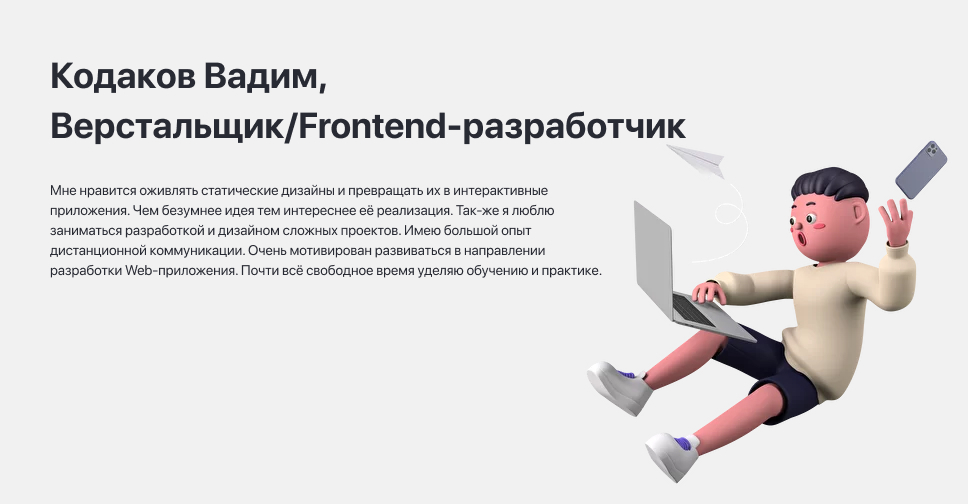
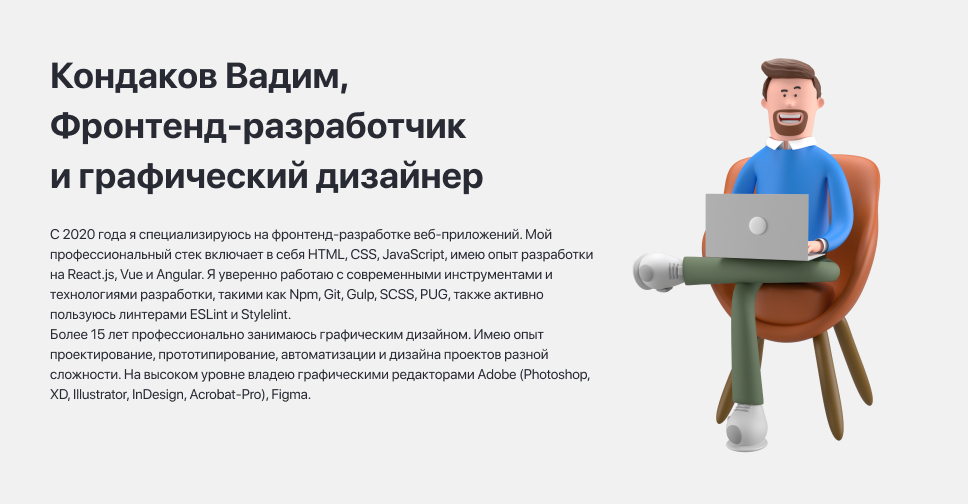
Updates

Changed region(s): [[0.031, 0.119, 0.9917, 0.9524], [0.093, 0.119, 0.3719, 0.1786]]

diff --git a/index.html b/index.html
@@ -4,20 +4,20 @@
 		<meta charset="utf-8">
 		<meta http-equiv="X-UA-Compatible" content="IE=edge">
 		<meta name="viewport" content="width=device-width">
-		<meta name="description" content="С 2020 года я специализируюсь на фронтенд-разработке веб-приложений. Мой профессиональный стек включает в себя HTML, CSS, JavaScript, а также фреймворки и библиотеки, такие как React.js и Angular. Я уверенно работаю с современными инструментами и технологиями разработки, такими как Git, Gulp, PUG, SCSS. Также более 15 лет профессионально занимаюсь графическим дизайном.  Имею опыт проектирование, прототипирование и дизайна проектов разной сложности. На высоком  уровне владею графическими редакторами Adobe (Photoshop, XD,  Illustrator, InDesign, Acrobat-Pro), Figma.">
+		<meta name="description" content="С 2020 года я специализируюсь на фронтенд-разработке веб-приложений. Мой профессиональный стек включает в себя HTML, CSS, JavaScript, имею опыт разработки на React.js, Vue и Angular. Я уверенно работаю с современными инструментами и технологиями разработки, такими как Npm, Git, Gulp, SCSS, PUG, также активно пользуюсь линтерами ESLint и Stylelint.">
 		<meta property="og:type" content="website">
 		<meta property="og:locale" content="ru_RU">
-		<meta property="og:title" content="Кодаков Вадим, резюме.">
-		<meta property="og:description" content="С 2020 года я специализируюсь на фронтенд-разработке веб-приложений. Мой профессиональный стек включает в себя HTML, CSS, JavaScript, а также фреймворки и библиотеки, такие как React.js и Angular. Я уверенно работаю с современными инструментами и технологиями разработки, такими как Git, Gulp, PUG, SCSS. Также более 15 лет профессионально занимаюсь графическим дизайном.  Имею опыт проектирование, прототипирование и дизайна проектов разной сложности. На высоком  уровне владею графическими редакторами Adobe (Photoshop, XD,  Illustrator, InDesign, Acrobat-Pro), Figma.">
+		<meta property="og:title" content="Кондаков Вадим, резюме.">
+		<meta property="og:description" content="С 2020 года я специализируюсь на фронтенд-разработке веб-приложений. Мой профессиональный стек включает в себя HTML, CSS, JavaScript, имею опыт разработки на React.js, Vue и Angular. Я уверенно работаю с современными инструментами и технологиями разработки, такими как Npm, Git, Gulp, SCSS, PUG, также активно пользуюсь линтерами ESLint и Stylelint.">
 		<meta property="og:image" content="./images/share.jpg">
 		<meta name="twitter:card" content="summary_large_image">
-		<meta name="twitter:title" content="Кодаков Вадим, резюме.">
-		<meta name="twitter:description" content="С 2020 года я специализируюсь на фронтенд-разработке веб-приложений. Мой профессиональный стек включает в себя HTML, CSS, JavaScript, а также фреймворки и библиотеки, такие как React.js и Angular. Я уверенно работаю с современными инструментами и технологиями разработки, такими как Git, Gulp, PUG, SCSS. Также более 15 лет профессионально занимаюсь графическим дизайном.  Имею опыт проектирование, прототипирование и дизайна проектов разной сложности. На высоком  уровне владею графическими редакторами Adobe (Photoshop, XD,  Illustrator, InDesign, Acrobat-Pro), Figma.">
+		<meta name="twitter:title" content="Кондаков Вадим, резюме.">
+		<meta name="twitter:description" content="С 2020 года я специализируюсь на фронтенд-разработке веб-приложений. Мой профессиональный стек включает в себя HTML, CSS, JavaScript, имею опыт разработки на React.js, Vue и Angular. Я уверенно работаю с современными инструментами и технологиями разработки, такими как Npm, Git, Gulp, SCSS, PUG, также активно пользуюсь линтерами ESLint и Stylelint.">
 		<meta name="twitter:image" content="./images/share.jpg">
-		<title>Кодаков Вадим, резюме.</title>
+		<title>Кондаков Вадим, резюме.</title>
 		<link rel="icon" href="./favicon_16x16.png" sizes="16x16">
 		<link rel="icon" href="./favicon_32x32.png" sizes="32x32">
-		<link rel="stylesheet" href="./css/main.css?v=1695098356137">
+		<link rel="stylesheet" href="./css/main.css?v=1695171879966">
 	</head>
 	<body data-scroll-container>
 		<header class="header">
@@ -54,11 +54,11 @@
 			<section class="about-me" id="about-me">
 				<div class="about-me__container container">
 					<div class="about-me__content about-me-content">
-						<h1 class="about-me-content__title" data-aos="fade-right" data-aos-duration="1000"><span>Кодаков Вадим,</span><span>Фронтенд-разработчик и графический дизайнер</span></h1>
-						<div class="about-me-content__text" data-aos="fade-right" data-aos-duration="1500"><p> С 2020 года я специализируюсь на фронтенд-разработке веб-приложений. Мой профессиональный стек включает в себя HTML, CSS, JavaScript, а также фреймворки и библиотеки, такие как React.js, Vue и Angular. Я уверенно работаю с современными инструментами и технологиями разработки, такими как NPM, Git, Gulp, PUG, SCSS. Также более 15 лет профессионально занимаюсь графическим дизайном.  Имею опыт проектирование, прототипирование, автоматизации и дизайна проектов разной сложности. На высоком  уровне владею графическими редакторами Adobe (Photoshop, XD,  Illustrator, InDesign, Acrobat-Pro), Figma.</p> <p>Обладаю большим опытом удаленной работы, что позволяет мне эффективно справляться с поставленными задачами и быть гибким в организации своего времени. </p> <p> Моя основная цель при разработке веб-приложения — создавать интуитивно понятные и привлекательные веб-интерфейсы для пользователей. Я активно изучаю новейшие тенденции и подходы в дизайне и разработке пользовательского интерфейса, чтобы создавать современные и инновационные продукты. </p> <p> Я стремлюсь к продолжительным отношениям с работодателем и готов решать сложные задачи и преодолевать технические вызовы. Я уверен, что мои навыки и опыт позволят мне эффективно вносить вклад в вашу компанию и обеспечить успех проектов в области frontend разработки.</p></div>
+						<h1 class="about-me-content__title" data-aos="fade-right" data-aos-duration="1000"><span>Кондаков Вадим,</span><span>Фронтенд-разработчик и графический дизайнер</span></h1>
+						<div class="about-me-content__text" data-aos="fade-right" data-aos-duration="1500"><p>С 2020 года я специализируюсь на фронтенд-разработке веб-приложений. Мой профессиональный стек включает в себя HTML, CSS, JavaScript, имею опыт разработки на  React.js, Vue и Angular. Я уверенно работаю с современными инструментами и технологиями разработки, такими как Npm, Git, Gulp, SCSS, PUG, также активно пользуюсь линтерами ESLint и Stylelint.</p><p>Более 15 лет профессионально занимаюсь графическим дизайном. Имею опыт проектирование, прототипирование, автоматизации и дизайна проектов разной сложности. На высоком уровне владею графическими редакторами Adobe (Photoshop, XD, Illustrator, InDesign, Acrobat-Pro), Figma.</p><p>Обладаю большим опытом удаленной работы, что позволяет мне эффективно справляться с поставленными задачами и быть гибким в организации своего времени.</p><p>Моя основная цель при разработке веб-приложения — создавать интуитивно понятные и привлекательные веб-интерфейсы для пользователей. Я активно изучаю новейшие тенденции и подходы в дизайне и разработке пользовательского интерфейса, чтобы создавать современные и инновационные продукты.</p><p>Я стремлюсь к продолжительным отношениям с работодателем и готов решать сложные задачи и преодолевать технические вызовы. Я уверен, что мои навыки и опыт позволят мне эффективно вносить вклад в вашу компанию и обеспечить успех проектов в области фронтенд-разработки.</p></div>
 					</div>
 					<div class="about-me__contacts about-me-contacts" data-aos="fade-left" data-aos-duration="1000">
-						<address class="about-me-contacts__list"><a class="about-me-contacts__link" href="mailto:vadims@list.ru">vadims@list.ru</a><a class="about-me-contacts__link" href="https://t.me/KondakovVadim" target="_blank">@telegramm</a><a class="about-me-contacts__link" href="https://github.com/Bawande" target="_blank">www.github.com</a><a class="about-me-contacts__link" href="https://yandex.ru/maps/-/CDQMnMkk" target="_blank">г. Улан-Удэ</a></address>
+						<address class="about-me-contacts__list"><a class="about-me-contacts__link" href="mailto:vadims@list.ru">vadims@list.ru</a><a class="about-me-contacts__link" href="https://t.me/KondakovVadim" target="_blank">@telegram</a><a class="about-me-contacts__link" href="https://github.com/Bawande" target="_blank">www.github.com</a><a class="about-me-contacts__link" href="https://yandex.ru/maps/-/CDQMnMkk" target="_blank">г. Улан-Удэ</a></address>
 					</div>
 					<div class="about-me__background-item">
 						<svg xmlns="http://www.w3.org/2000/svg" width="1262" height="396" viewbox="0 0 1262 396" fill="none">
@@ -101,7 +101,7 @@
 													</div>
 													<div class="experience-card__location">Россия</div>
 												</header>
-												<p class="experience-card__description">Адаптивная и кроссбраузерная верстка, анимация, обеспечение интерактивности вэб-интерфейсов и обеспечение коммуникации их с сервером.</p>
+												<p class="experience-card__description">Адаптивная и кроссбраузерная верстка, анимация, обеспечение интерактивности веб-интерфейсов и обеспечение коммуникации их с сервером.</p>
 												<div class="experience-card__works-list"><a class="experience-card__work-link" href="https://bawande.github.io/school-online/" target="_blank">Лендинг</a><a class="experience-card__work-link" href="https://bawande.github.io/pet-project_website-company/" target="_blank">Корпоративный портал</a>
 												</div>
 											</article>
@@ -127,7 +127,7 @@
 													</div>
 													<div class="experience-card__location">Россия</div>
 												</header>
-												<p class="experience-card__description">Проектирование, прототипирование и дизайн вэб-приложений. Дизайн, верстка и допечатная подготовка полиграфической продукции.</p>
+												<p class="experience-card__description">Проектирование, прототипирование и дизайн веб-приложений. Дизайн, верстка и допечатная подготовка полиграфической продукции.</p>
 												<div class="experience-card__works-list"><a class="experience-card__work-link" href="https://www.figma.com/proto/t6pzON7wvh1j8i7oZBtsto/%D0%9F%D0%BE%D1%80%D1%82%D1%84%D0%BE%D0%BB%D0%B8%D0%BE?page-id=0%3A1&amp;type=design&amp;node-id=1-3&amp;viewport=508%2C-609%2C1.04&amp;t=oqc11PTObmJImlbe-1&amp;scaling=min-zoom&amp;mode=design" target="_blank">Проекты</a>
 												</div>
 											</article>
@@ -154,7 +154,7 @@
 													<div class="experience-card__location">Улан-Удэ, Чита</div>
 												</header>
 												<p class="experience-card__description">Разработка сетки, автоматизация процессов верстки, обработка и систематизация данных каталога, дизайн макетов, обработка фотоматериалов, верстка и допечатная подготовка каталога товаров.</p>
-												<div class="experience-card__works-list"><a class="experience-card__work-link" href="https://nikolaevskiy.info/" target="_blank">Никoлаeвский</a><a class="experience-card__work-link" href="https://www.sputnik-chita.ru/" target="_blank">Cпутник</a>
+												<div class="experience-card__works-list"><a class="experience-card__work-link" href="https://nikolaevskiy.info/" target="_blank">Официальный сайт «Никoлаeвский»</a><a class="experience-card__work-link" href="https://www.sputnik-chita.ru/" target="_blank">Официальный сайт «Cпутник»</a>
 												</div>
 											</article>
 							</div>
@@ -180,7 +180,7 @@
 													<div class="experience-card__location">Улан-Удэ</div>
 												</header>
 												<p class="experience-card__description">Верстка статей согласно бренд-буку, обработка и ретуширование фотоматериалов, прием редактирование рекламных макетов, сборка журнала и подготовка его к печати.</p>
-												<div class="experience-card__works-list"><a class="experience-card__work-link" href="https://vibirai.ru/" target="_blank">Выбирай</a>
+												<div class="experience-card__works-list"><a class="experience-card__work-link" href="https://vibirai.ru/" target="_blank">Официальный сайт «Выбирай»</a>
 												</div>
 											</article>
 							</div>
@@ -206,7 +206,7 @@
 													<div class="experience-card__location">Улан-Удэ, Иркутск</div>
 												</header>
 												<p class="experience-card__description">Верстка статей согласно бренд-буку, дизайн макетов, обработка и ретуширование фотоматериалов, прием редактирование рекламных макетов, сборка журнала и подготовка его к печати.</p>
-												<div class="experience-card__works-list"><a class="experience-card__work-link" href="https://chelovekdela.com/" target="_blank">Человек Дела</a>
+												<div class="experience-card__works-list"><a class="experience-card__work-link" href="https://chelovekdela.com/" target="_blank">Официальный сайт «Человек Дела»</a>
 												</div>
 											</article>
 							</div>
@@ -232,7 +232,7 @@
 													<div class="experience-card__location">Улан-Удэ, Иркутск</div>
 												</header>
 												<p class="experience-card__description">Верстка статей согласно бренд-буку, дизайн макетов, обработка и ретуширование фотоматериалов, прием редактирование рекламных макетов, сборка журнала и подготовка его к печати.</p>
-												<div class="experience-card__works-list"><a class="experience-card__work-link" href="https://yapokupayu.ru" target="_blank">Портал «Я Покупаю»</a>
+												<div class="experience-card__works-list"><a class="experience-card__work-link" href="https://yapokupayu.ru" target="_blank">Официальный сайт «Я Покупаю»</a>
 												</div>
 											</article>
 							</div>
@@ -258,7 +258,7 @@
 													<div class="experience-card__location">Улан-Удэ</div>
 												</header>
 												<p class="experience-card__description">Подготовка полиграфических материалов к печати, составляет требования к файлам в соответствии с особенностями типографского оборудования, проверка на соответствие получаемых от заказчика файлов и приведение их к техническим требованиям типографии, спуск полос, отрисовка штампов и клише, передача их подрядчику, вывод пленок и обслуживание машины фото вывода.</p>
-												<div class="experience-card__works-list"><a class="experience-card__work-link" href="https://domline.ru/" target="_blank">Рекламная группа &quot;Домино&quot;</a>
+												<div class="experience-card__works-list"><a class="experience-card__work-link" href="https://domline.ru/" target="_blank">Официальный сайт «РГ Домино»</a>
 												</div>
 											</article>
 							</div>
@@ -293,7 +293,7 @@
 											<article class="education-card" data-aos="fade-up" data-aos-duration="1000">
 												<div class="education-card__icons-wrap"><span class="education-card__icon _secondary _darkgreen"></span><span class="education-card__icon _primary _green"></span><span class="education-card__icon _secondary _black"></span>
 												</div>
-												<h3 class="education-card__title">Верстка <br>Вэб-приложений</h3>
+												<h3 class="education-card__title">Верстка <br>веб-приложений</h3>
 												<p class="education-card__description">Дмитрий Лаврик, <br>курс лекций: <br>Классическая и продвинутая вёрстка. Javascript Интенсивный базовый курс <br>2019-2021</p>
 											</article>
 							</div>
@@ -342,13 +342,13 @@
 						</div>
 						<div class="skills__card">
 										<article class="skills-card" data-aos="fade-up" data-aos-anchor-placement="top-bottom" data-aos-duration="1000">
-											<h3 class="skills-card__group-title">Верстка вэб-интерфейсов</h3>
-											<p class="skills-card__skills-list">Технологии: HTML/HTML5, CSS/SCSS/PostCSS, JavaScript/ES6+, JSON, PUG, GULP, ESLint, Stylelint, GIT. Редактор кода: VS Code.</p>
+											<h3 class="skills-card__group-title">Верстка веб-интерфейсов</h3>
+											<p class="skills-card__skills-list">Технологии веб-разработки: HTML/HTML5, CSS/SCSS/PostCSS, JavaScript/ES6+, JSON, PUG, GULP, ESLint, Stylelint, GIT. <br>Редактор кода: VS Code.</p>
 										</article>
 						</div>
 						<div class="skills__card">
 										<article class="skills-card" data-aos="fade-up" data-aos-anchor-placement="top-bottom" data-aos-duration="1000">
-											<h3 class="skills-card__group-title">Графический дизайн и разработка вэб-интерфейсов</h3>
+											<h3 class="skills-card__group-title">Графический дизайн и разработка веб-интерфейсов</h3>
 											<p class="skills-card__skills-list">Графические редакторы для дизайна и прототипирования: Photoshop, Illustrator, Figma, XD. Работал со связкой Photoshop+Zeplin. Обработка и коррекция изображений в редакторах: Photoshop, Lightroom.</p>
 										</article>
 						</div>
@@ -390,7 +390,7 @@
 				document.getElementsByTagName('head')[0].appendChild(script);
 			}
 		</script>
-		<script src="./js/vendor.js?v=1695098356140"></script>
-		<script src="./js/main.js?v=1695098356140"></script>
+		<script src="./js/vendor.js?v=1695171879968"></script>
+		<script src="./js/main.js?v=1695171879968"></script>
 	</body>
 </html>

diff --git a/js/main.js b/js/main.js
@@ -304,7 +304,7 @@ __webpack_require__.r(__webpack_exports__);
 function _createForOfIteratorHelper(o, allowArrayLike) { var it = typeof Symbol !== "undefined" && o[Symbol.iterator] || o["@@iterator"]; if (!it) { if (Array.isArray(o) || (it = _unsupportedIterableToArray(o)) || allowArrayLike && o && typeof o.length === "number") { if (it) o = it; var i = 0; var F = function F() {}; return { s: F, n: function n() { if (i >= o.length) return { done: true }; return { done: false, value: o[i++] }; }, e: function e(_e) { throw _e; }, f: F }; } throw new TypeError("Invalid attempt to iterate non-iterable instance.\nIn order to be iterable, non-array objects must have a [Symbol.iterator]() method."); } var normalCompletion = true, didErr = false, err; return { s: function s() { it = it.call(o); }, n: function n() { var step = it.next(); normalCompletion = step.done; return step; }, e: function e(_e2) { didErr = true; err = _e2; }, f: function f() { try { if (!normalCompletion && it["return"] != null) it["return"](); } finally { if (didErr) throw err; } } }; }
 function _unsupportedIterableToArray(o, minLen) { if (!o) return; if (typeof o === "string") return _arrayLikeToArray(o, minLen); var n = Object.prototype.toString.call(o).slice(8, -1); if (n === "Object" && o.constructor) n = o.constructor.name; if (n === "Map" || n === "Set") return Array.from(o); if (n === "Arguments" || /^(?:Ui|I)nt(?:8|16|32)(?:Clamped)?Array$/.test(n)) return _arrayLikeToArray(o, minLen); }
 function _arrayLikeToArray(arr, len) { if (len == null || len > arr.length) len = arr.length; for (var i = 0, arr2 = new Array(len); i < len; i++) arr2[i] = arr[i]; return arr2; }
-var urlImages = ["images/icon-company_21vek-by.jpg", "images/icon-company_Integral.jpg", "images/icon-company_j-creative-solutions.jpg", "images/icon-company_oz-by.jpg", "images/achievements-boy-desktop.png", "images/footer_hands-desktop.png", "images/header-logo-desktop.png", "images/header-menu_watch.png"];
+var urlImages = ["images/logo_design.jpg", "images/logo_dev.jpg", "images/logo_domino.jpg", "images/logo_Im-buying.jpg", "images/logo_man-of-action.jpg", "images/logo_nicolaevskuy.jpg", "images/logo_vibiray.jpg", "images/achievements-boy-desktop.png", "images/footer_hands-desktop.png", "images/header-logo-desktop.png", "images/header-menu_watch.png"];
 function LoadingImage() {
   this.urls = new Set();
   this.listImages = [];
